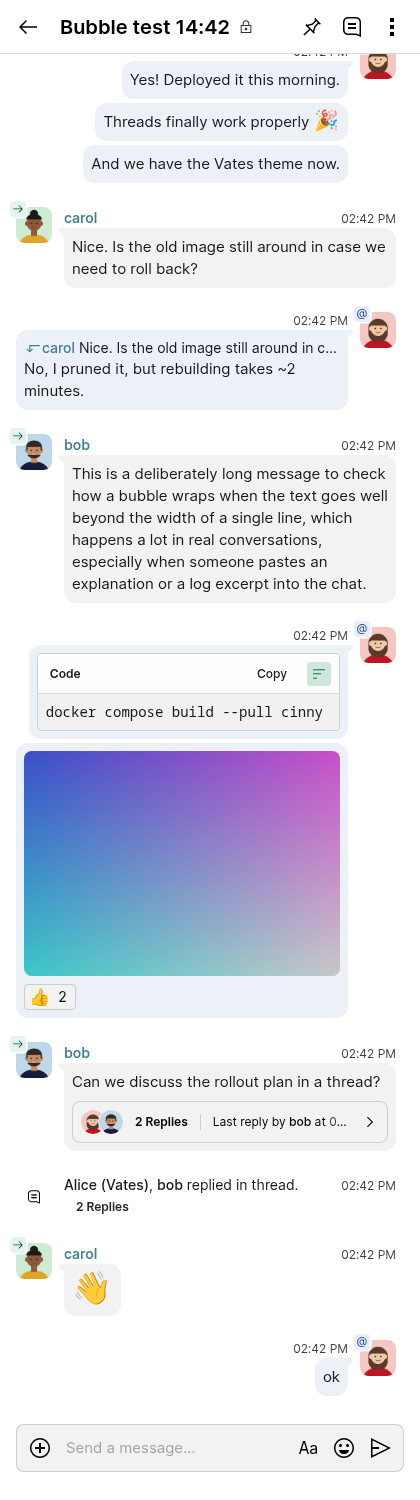
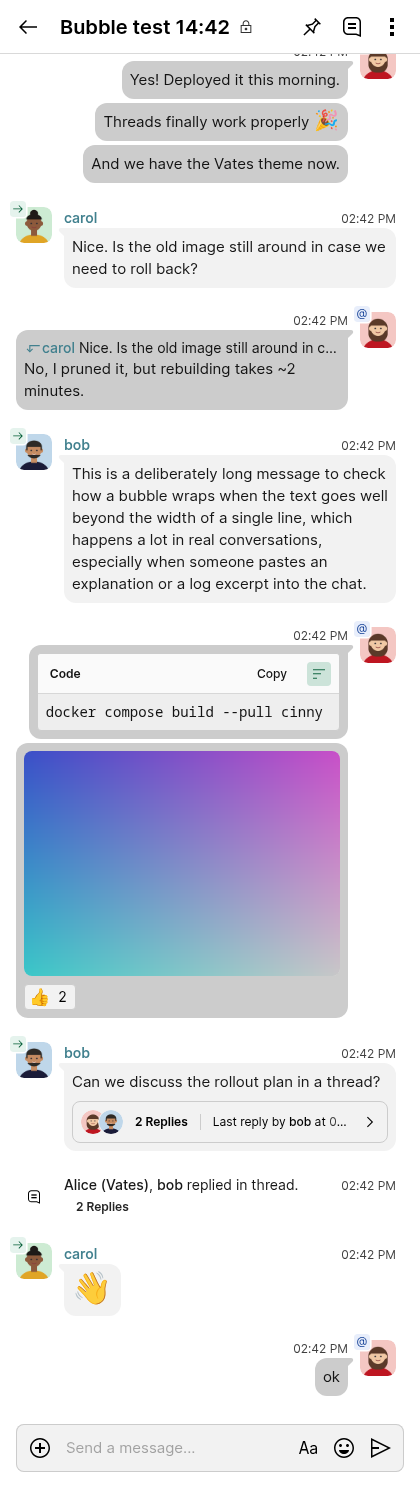
Own bubbles: neutral shade instead of an accent tint
Cinny now colours mentions with the accent, so an accent-tinted own bubble
would look like a ping (as suggested on cinnyapp/cinny#1978). Own bubbles
use Secondary.ContainerHover: plain grey, one clear step from the others'
bubbles in light and dark themes. Screenshots and README updated.

diff --git a/README.md b/README.md
@@ -41,8 +41,8 @@ ones under *Dark Theme*.
 ## Own messages on the right
 
 `patches/bubble-own-right.patch`: in the Bubble layout, your own messages are
-shown on the right, tinted with the theme's accent, with only the time in the
-group header. Your avatar moves to the right with them, so its membership badge
+shown on the right in a slightly different neutral shade (not the accent, which
+Cinny uses for mentions), with only the time in the group header. Your avatar moves to the right with them, so its membership badge
 (Newly Joined, Name Changed, …) stays visible. Toggle: **Settings → General → Messages → My Messages on the Right**
 (shown when the layout is Bubble; on by default). Pending messages and the thread
 panel follow it; with the toggle off, or in the Modern/Compact layouts, nothing
@@ -56,7 +56,7 @@ changes. Upstream request: [cinnyapp/cinny#1978](https://github.com/cinnyapp/cin
 |---|---|
 | ![The "Name Changed" badge tooltip on your own avatar](docs/avatars/badge.png) | ![Own messages on the right, mobile width](docs/avatars/after-mobile.png) |
 
-![The toggle in Settings > General > Messages](docs/setting.png)
+![The toggle in Settings > General > Messages](docs/avatars/setting.png)
 
 The avatars in these screenshots are drawn test pictures, not real people.
 
